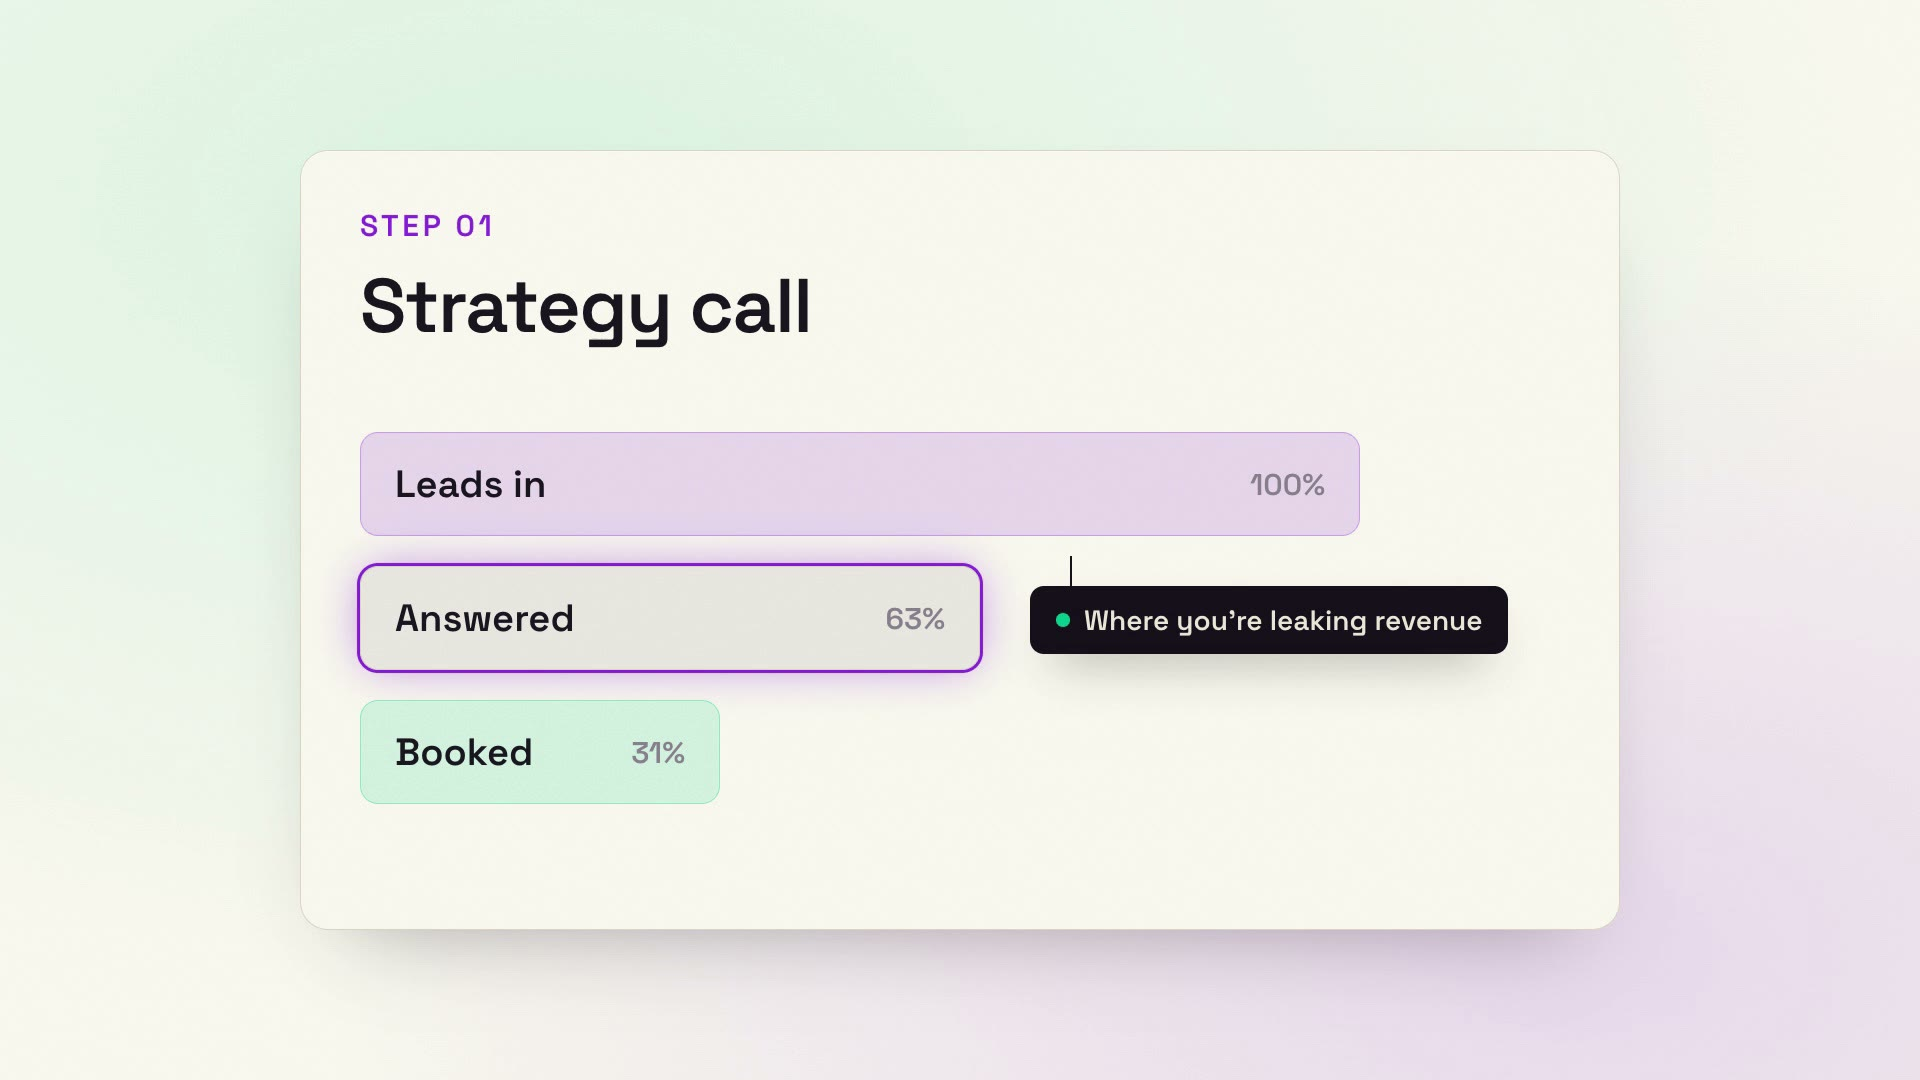
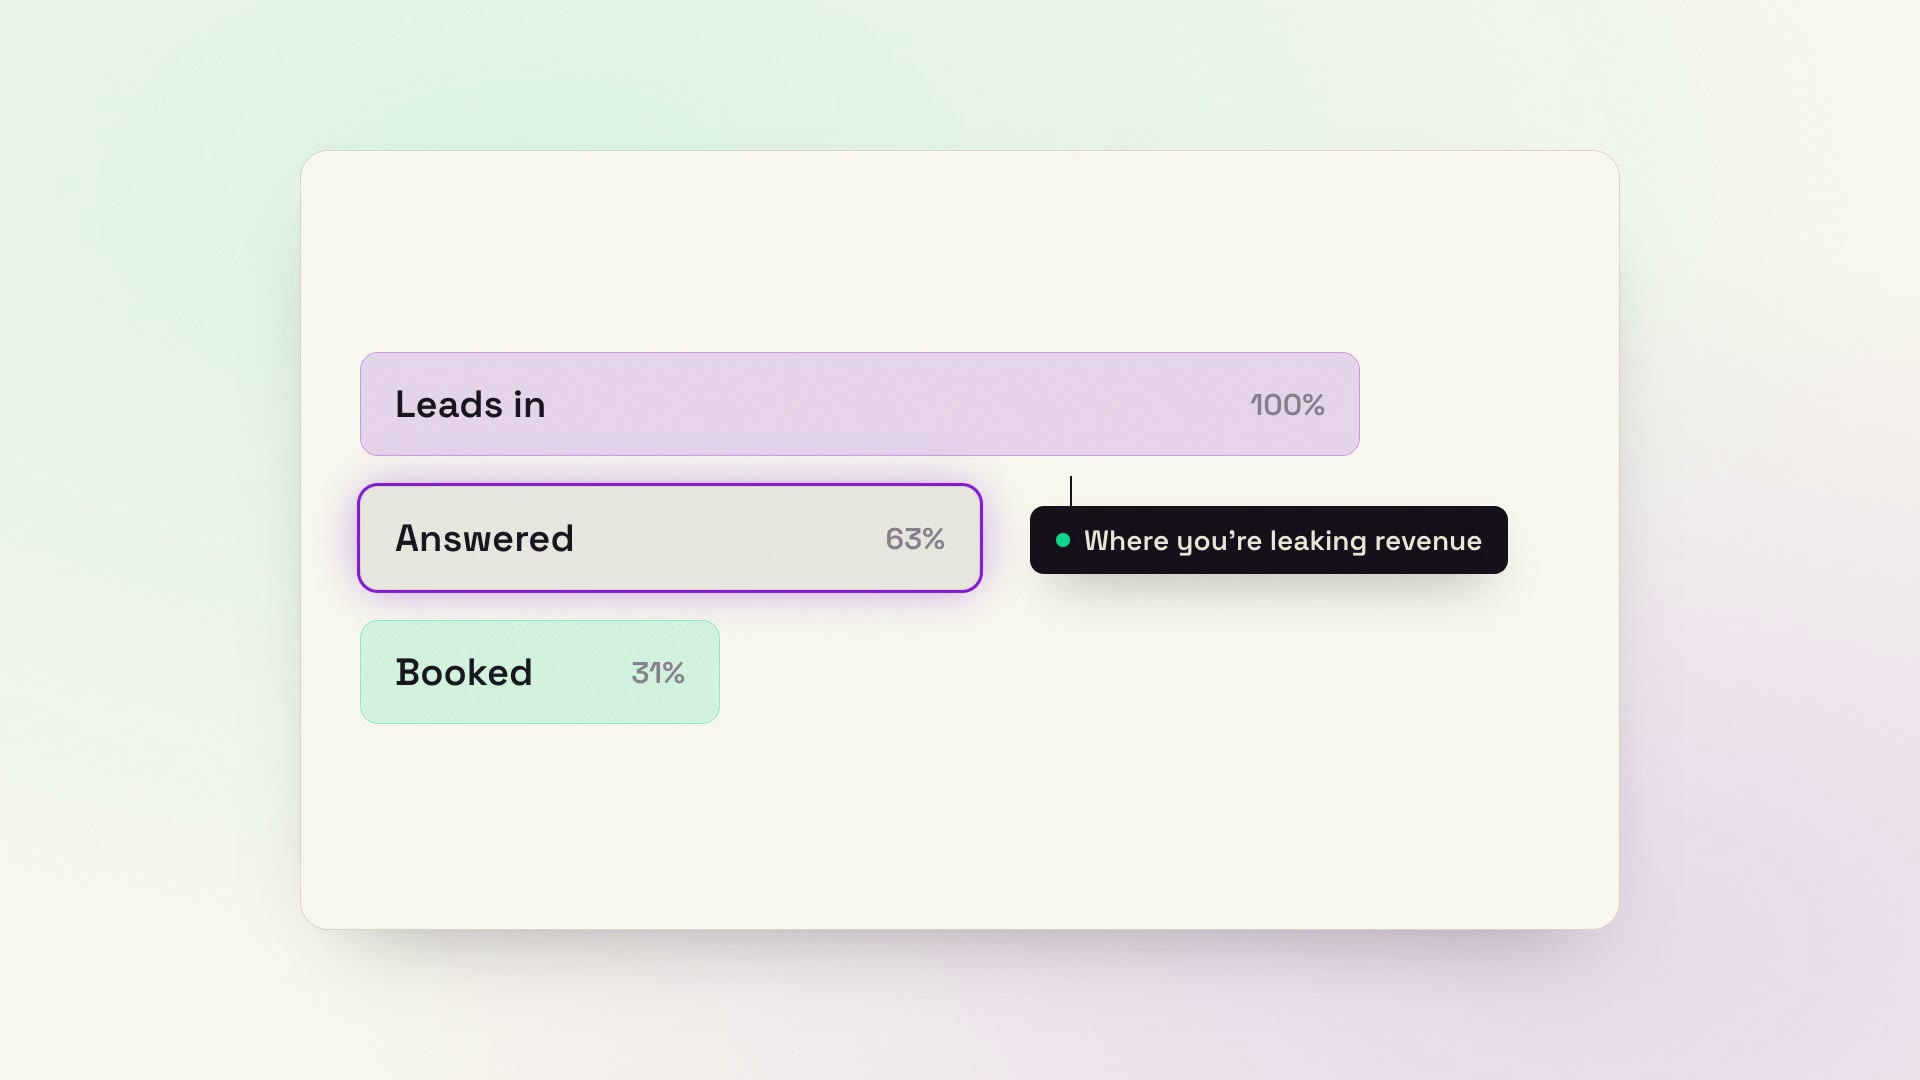
Drop step number + title from the 3 how-it-works clips
Those labels are already on the page (how-num + how-title), so the clips
were duplicating them. Strip the baked-in header from each clip and
re-center the remaining content in the card; re-render + re-embed.

Claude-Session: https://claude.ai/code/session_01LYW4PSw1XsCJ2EdsMCHzBK

Changed region(s): [[0.1562, 0.2444, 0.8125, 0.7639], [0.1875, 0.1833, 0.25, 0.2139]]

diff --git a/motion/clips/how-01.html b/motion/clips/how-01.html
@@ -7,9 +7,7 @@
     <script src="https://cdn.jsdelivr.net/npm/gsap@3.14.2/dist/gsap.min.js"></script>
     <style>
       #card { left: 300px; top: 150px; width: 1320px; height: 780px; }
-      #hd { position: absolute; left: 360px; top: 206px; }
-      #hd .step { font-family: var(--display); font-weight: 600; font-size: 30px; letter-spacing: 0.12em; color: var(--violet); }
-      #hd .ttl { font-family: var(--display); font-weight: 600; font-size: 76px; letter-spacing: -0.02em; margin-top: 12px; }
+      #content { position: absolute; inset: 0; transform: translateY(-80px); }
       .funnel { position: absolute; left: 360px; top: 432px; width: 1200px; }
       .bar { position: relative; height: 104px; border-radius: 18px; margin-bottom: 30px;
         display: flex; align-items: center; padding: 0 34px; color: var(--ink); font-family: var(--display); font-weight: 600; font-size: 38px; }
@@ -30,15 +28,15 @@
     <div id="stage" class="stage" data-composition-id="how-01" data-width="1920" data-height="1080" data-start="0" data-duration="6">
       <div class="ambient"></div>
       <div id="card" class="card"></div>
-      <div id="hd"><div class="step">STEP 01</div><div class="ttl">Strategy call</div></div>
-
-      <div class="funnel">
-        <div class="bar" id="bar1">Leads in <span class="n">100%</span></div>
-        <div class="bar" id="bar2">Answered <span class="n">63%</span></div>
-        <div class="bar" id="bar3">Booked <span class="n">31%</span></div>
+      <div id="content">
+        <div class="funnel">
+          <div class="bar" id="bar1">Leads in <span class="n">100%</span></div>
+          <div class="bar" id="bar2">Answered <span class="n">63%</span></div>
+          <div class="bar" id="bar3">Booked <span class="n">31%</span></div>
+        </div>
+        <div id="scan"></div>
+        <div id="leak"><div class="stem"></div><div class="pin"><span class="d"></span>Where you’re leaking revenue</div></div>
       </div>
-      <div id="scan"></div>
-      <div id="leak"><div class="stem"></div><div class="pin"><span class="d"></span>Where you’re leaking revenue</div></div>
       <div class="grain"></div>
 
       <script>

diff --git a/motion/clips/how-02.html b/motion/clips/how-02.html
@@ -7,9 +7,7 @@
     <script src="https://cdn.jsdelivr.net/npm/gsap@3.14.2/dist/gsap.min.js"></script>
     <style>
       #card { left: 300px; top: 150px; width: 1320px; height: 780px; }
-      #hd { position: absolute; left: 360px; top: 206px; }
-      #hd .step { font-family: var(--display); font-weight: 600; font-size: 30px; letter-spacing: 0.12em; color: var(--violet); }
-      #hd .ttl { font-family: var(--display); font-weight: 600; font-size: 76px; letter-spacing: -0.02em; margin-top: 12px; }
+      #content { position: absolute; inset: 0; transform: translateY(-115px); }
       #wire { position: absolute; inset: 0; }
       .core { position: absolute; left: 810px; top: 470px; width: 300px; height: 250px; border-radius: 30px;
         background: var(--card); border: 2px solid transparent;
@@ -36,8 +34,7 @@
     <div id="stage" class="stage" data-composition-id="how-02" data-width="1920" data-height="1080" data-start="0" data-duration="6">
       <div class="ambient"></div>
       <div id="card" class="card"></div>
-      <div id="hd"><div class="step">STEP 02</div><div class="ttl">We build your agent</div></div>
-
+      <div id="content">
       <svg id="wire" viewBox="0 0 1920 1080">
         <line class="conn" id="l1" x1="710" y1="478" x2="900" y2="560" pathLength="1" stroke="#00bf8f" stroke-width="3" fill="none" stroke-dasharray="1" stroke-dashoffset="1" />
         <line class="conn" id="l2" x1="710" y1="712" x2="900" y2="640" pathLength="1" stroke="#00bf8f" stroke-width="3" fill="none" stroke-dasharray="1" stroke-dashoffset="1" />
@@ -55,6 +52,7 @@
       <div class="chip2" id="t3"><div class="cring"></div><div class="ci"><svg viewBox="0 0 24 24" fill="none" stroke="currentColor" stroke-width="2" stroke-linecap="round" stroke-linejoin="round"><path d="M4 4h16v16H4z"/><path d="M4 7l8 5 8-5"/></svg></div><div class="nm">CRM</div></div>
       <div class="chip2" id="t4"><div class="cring"></div><div class="ci"><svg viewBox="0 0 24 24" fill="none" stroke="currentColor" stroke-width="2" stroke-linecap="round" stroke-linejoin="round"><path d="M21 11.5a8.[phone redacted]-.[phone redacted].[phone redacted]-.9L3 21l1.9-5.7a8.[phone redacted]-.[phone redacted].[phone redacted]-.9h.5a8.[phone redacted] 8z"/></svg></div><div class="nm">WhatsApp</div></div>
       <div id="built">✓ Built in days - wired into your tools</div>
+      </div>
       <div class="grain"></div>
 
       <script>

diff --git a/motion/clips/how-03.html b/motion/clips/how-03.html
@@ -7,9 +7,7 @@
     <script src="https://cdn.jsdelivr.net/npm/gsap@3.14.2/dist/gsap.min.js"></script>
     <style>
       #card { left: 300px; top: 150px; width: 1320px; height: 780px; }
-      #hd { position: absolute; left: 360px; top: 206px; }
-      #hd .step { font-family: var(--display); font-weight: 600; font-size: 30px; letter-spacing: 0.12em; color: var(--violet); }
-      #hd .ttl { font-family: var(--display); font-weight: 600; font-size: 76px; letter-spacing: -0.02em; margin-top: 12px; }
+      #content { position: absolute; inset: 0; transform: translateY(-70px); }
       .livepill { position: absolute; left: 360px; top: 430px; display: inline-flex; align-items: center; gap: 16px;
         padding: 14px 28px; border-radius: 999px; font-family: var(--display); font-weight: 600; font-size: 28px; letter-spacing: 0.12em; }
       .livepill .d { width: 16px; height: 16px; border-radius: 50%; flex: none; }
@@ -27,8 +25,7 @@
     <div id="stage" class="stage" data-composition-id="how-03" data-width="1920" data-height="1080" data-start="0" data-duration="6">
       <div class="ambient"></div>
       <div id="card" class="card"></div>
-      <div id="hd"><div class="step">STEP 03</div><div class="ttl">Live &amp; earning</div></div>
-
+      <div id="content">
       <div class="livepill" id="live-off"><span class="d"></span>OFFLINE</div>
       <div class="livepill" id="live-on"><span class="d"></span>LIVE</div>
       <div id="counter"><div class="v" id="num">£0</div><div class="lab">earned · week one</div></div>
@@ -43,6 +40,7 @@
         <path id="rev" d="M40 400 C 180 380, 280 320, 380 280 S 560 150, 660 90" fill="none" stroke="url(#ln)" stroke-width="6" stroke-linecap="round" pathLength="1" stroke-dasharray="1" stroke-dashoffset="1" />
         <circle id="endp" cx="660" cy="90" r="11" fill="#8e2de2" opacity="0" />
       </svg>
+      </div>
       <div class="grain"></div>
 
       <script>